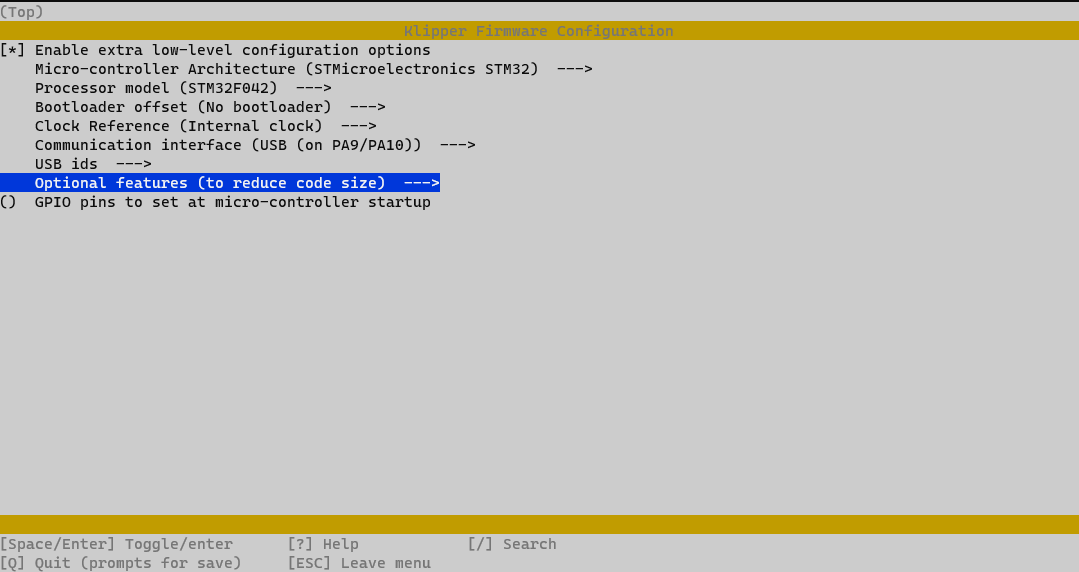
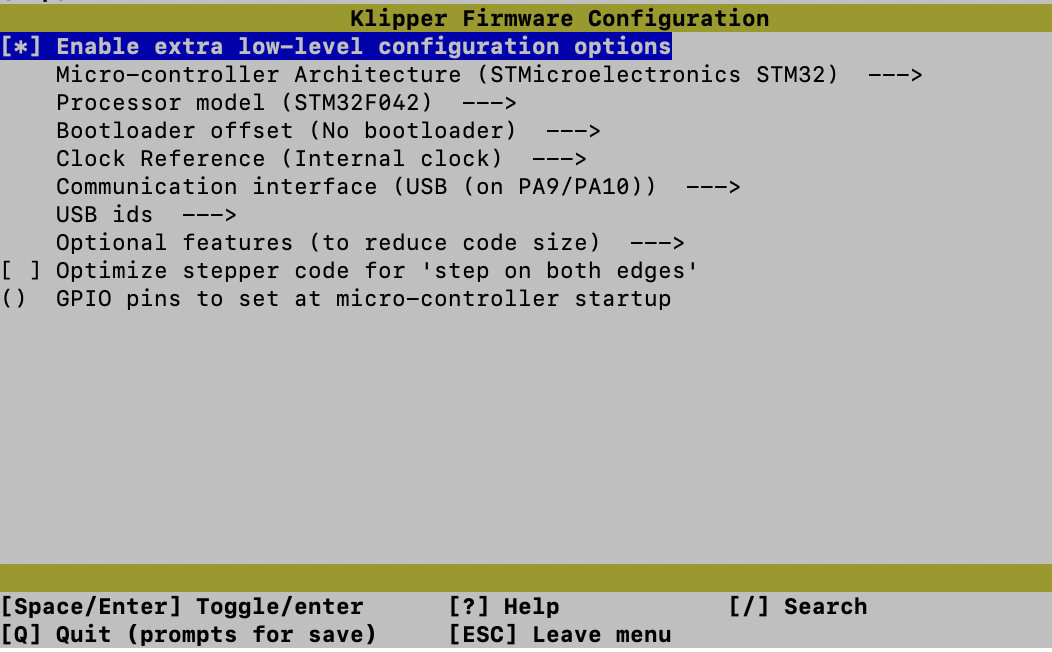
Update klipper expander menuconfig items and clarify what's required to be configured.  Add note about errors (#241)
* -update menuconfig images to reflect updated configuration items in klipper firmware
-Add comment about not configuring `USB ids` (appears not to be needed)
-Borrow content from V0 display repo about the error after flashing being OK

* add files that were supposed to be added in last commit

diff --git a/Klipper_Expander/Documentation/Setup_and_Flashing_Guide.md b/Klipper_Expander/Documentation/Setup_and_Flashing_Guide.md
@@ -17,7 +17,8 @@
 7) Run `make menuconfig` settings should be:
 
 	<img src="../Images/Menuconfig_Base_Options.png" width="1000">
-
+	
+	- Do not configure `USB ids`
 	- Set the "Optional features" to:
 
 	<img src="../Images/Menuconfig_Optional_Options.png" width="1000">
@@ -27,6 +28,11 @@
 8) Run `make clean` to clean up the make environment.
 
 9) Run `make flash FLASH_DEVICE=xxxx:yyyy` (using xxxx:yyyy from above)
+
+    - You may see what appears to be an "error" after flashing your board. (Blue box)
+	- As long as you see the `File downloaded successfully` text (Green box) you are good to proceed.
+ 	- The error (Red box) seems to be caused by the controller immediately running the uploaded code and no longer appearing as a DFU device. This is not an issue, as long as the board reports a Klipper serial name.
+		<img src="../Images/dfu-util_Flashing_Error.png" width="500">
 
 10) Remove the boot jumper and press the reset button.
 
